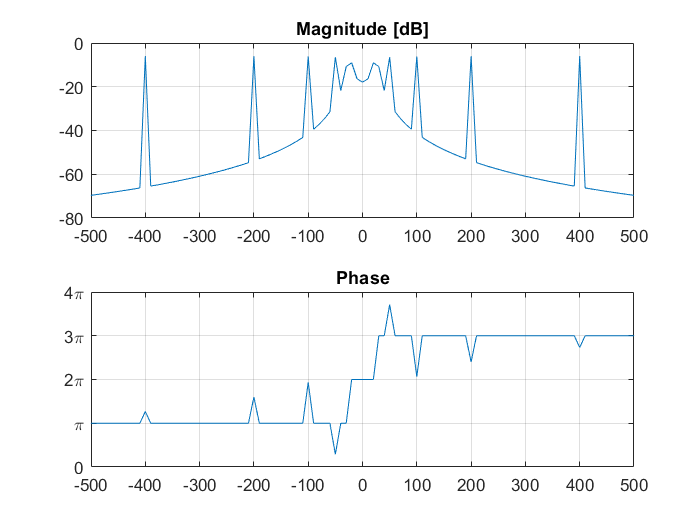
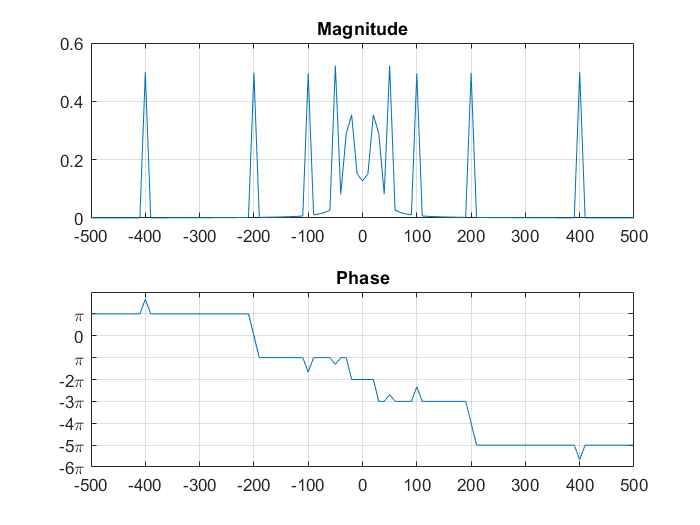
New plots

diff --git a/matlab/assignment1.m b/matlab/assignment1.m
@@ -60,7 +60,7 @@ k = 0;
 [t, s0] = generate_sinusoid(1, f0, k*phi, fs, T_s);
 s = s0;
 for k = 1:N
-    [t, s0] = generate_sinusoid(1, f0*2^k, k*phi-1/pi, fs, T_s);
+    [t, s0] = generate_sinusoid(1, f0*2^k, k*phi-pi/2, fs, T_s); % - pi/2 to make it cos
     s = s0 + s;
 end
 
@@ -79,19 +79,19 @@ title(str,'Interpreter','latex')
 
 figure(4) % Magnitude and phase
 subplot(2,1,1)
-plot(F,20*log10(abs(Y)));
+plot(F,abs(Y));
 xlim([-length(Y), length(Y)]);
-title('Magnitude [dB]');
+title('Magnitude');
 grid();
 
 
 subplot(2,1,2)
 plot(F,phase(Y));
 xlim([-length(Y), length(Y)]);
-ylim([0 4*pi]);
+ylim([-6*pi 2*pi]);
 title('Phase');
-yticks(0:pi:4*pi);
-yticklabels({'0','\pi','2\pi','3\pi','4\pi'});
+yticks(-6*pi:pi:pi);
+yticklabels({'-6\pi','-5\pi','-4\pi','-3\pi','-2\pi','\pi','0','\pi','2\pi'});
 grid();
 
 figure(5) % Real and imaginary part
